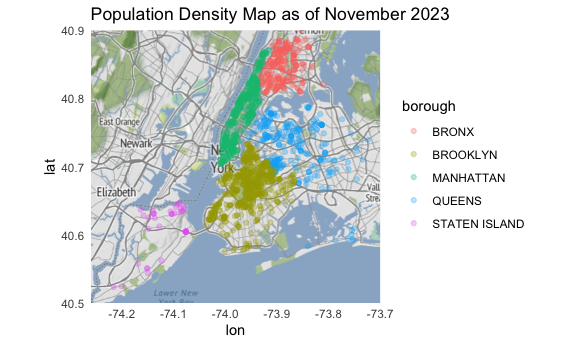
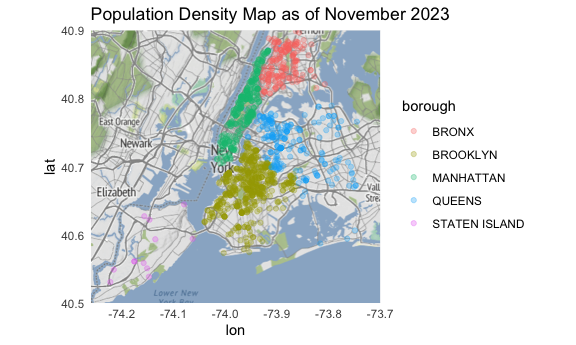
with mid edit

diff --git a/final_project.md b/final_project.md
@@ -128,12 +128,12 @@ rats_november=rats_df|>
   filter(borough != "Unspecified")
 
 ggmap(nyc_map)+
-geom_point(aes(x=longitude,y=latitude,color=borough),alpha=0.3,data=rats_march)+
+geom_point(aes(x=longitude,y=latitude,color=borough),alpha=0.3,data=rats_november)+
   theme_minimal() +
   labs(title = "Population Density Map as of November 2023")
 ```
 
-    ## Warning: Removed 5 rows containing missing values (`geom_point()`).
+    ## Warning: Removed 12 rows containing missing values (`geom_point()`).
 
 <img src="final_project_files/figure-gfm/unnamed-chunk-5-1.png" width="90%" />
 
